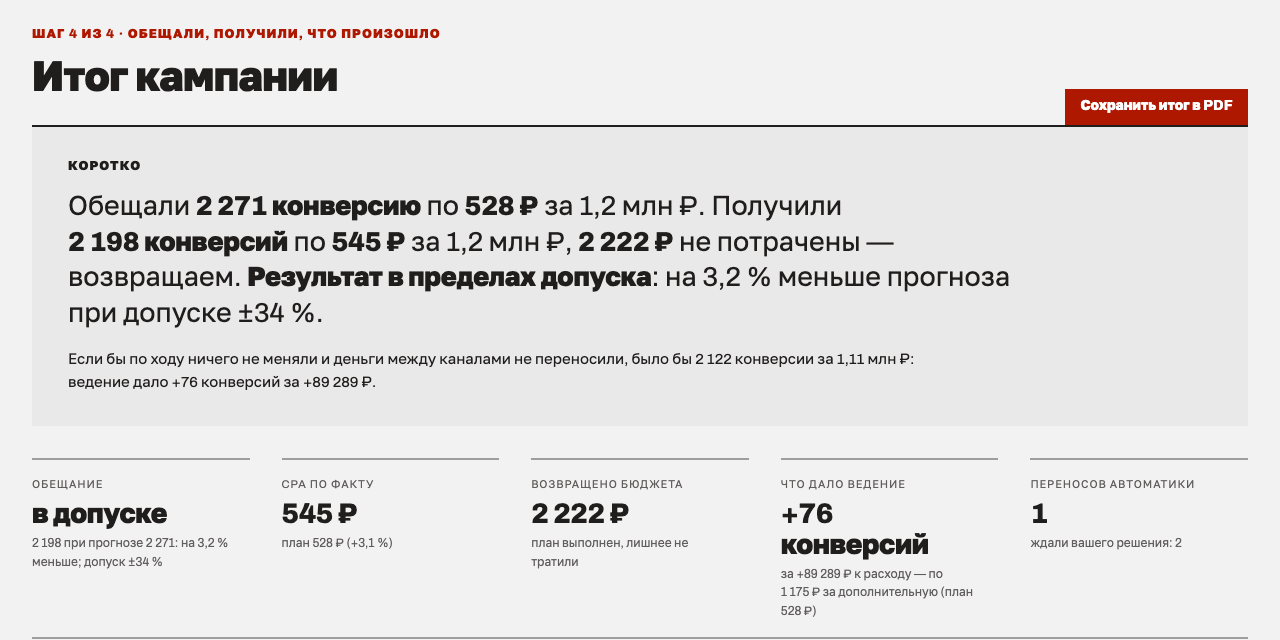
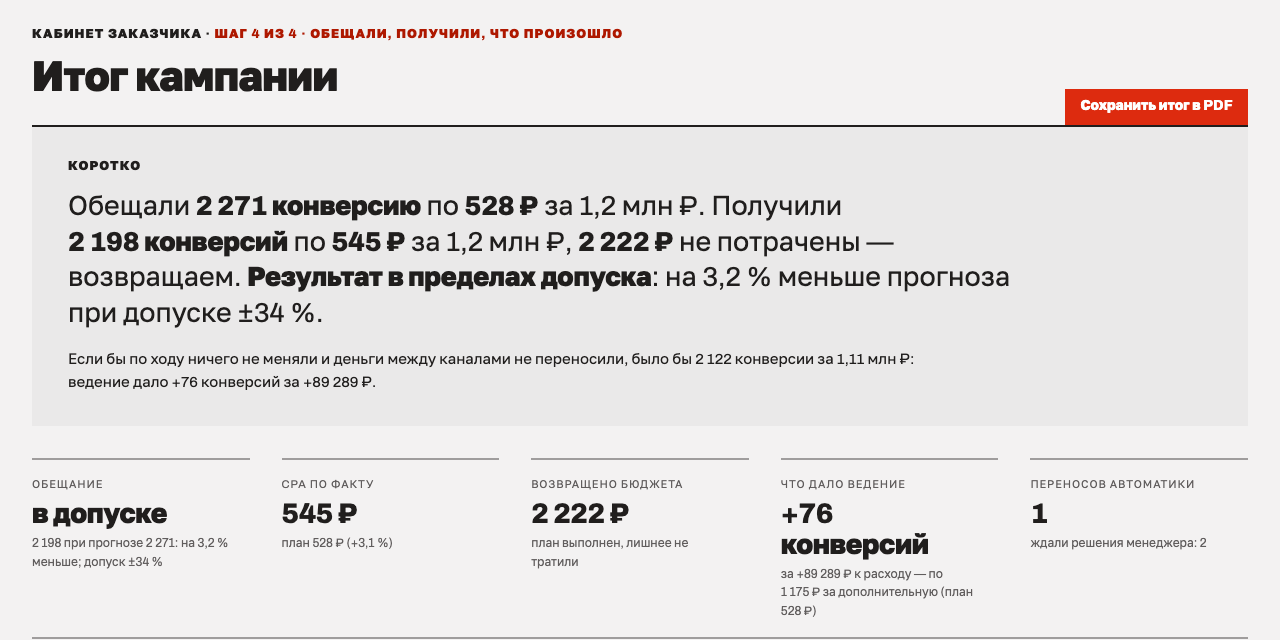
feat(app): два кабинета — заказчик и менеджер
Вместо видов «Просто/Подробно» — переключатель «Кабинет: Заказчик / Менеджер», имя кабинета первым словом на каждом экране и во вкладке, адрес ?role=customer|manager (старые ?level= работают). Заказчик видит карточки переносов выше лимита без кнопок, с подписью «Решает менеджер», плеер у него не ждёт решений; менеджер решает и откатывает. Починен второй приход к итогу (стенды терялись при перерисовке). Снимки и гифка пересняты: customer-*, manager-*.

Changed region(s): [[0.8125, 0.125, 1.0, 0.2188], [0.0312, 0.0312, 0.5, 0.0625], [0.8438, 0.8438, 0.9375, 0.875]]

diff --git a/app/static/index.html b/app/static/index.html
@@ -22,7 +22,7 @@
   }
   *,*::before,*::after{box-sizing:border-box}
   [hidden]{display:none!important}
-  /* Два уровня: «Рекламодатель» — без техники, «Агентство» — с ней. Всё техническое помечено классом tech */
+  /* Два кабинета одной страницей: «Заказчик» (level=simple) — без техники и без решений, «Менеджер» (level=tech) — с ними. Всё для менеджера помечено классом tech, только для заказчика — simple */
   body[data-level=simple] .tech{display:none!important}
   body[data-level=tech] .simple{display:none!important}
   body[data-level=simple] .two{grid-template-columns:1fr}
@@ -111,6 +111,8 @@
   main{max-width:1280px;margin:0 auto;padding:32px 32px 80px}
   section.screen{min-width:0}
   h6.kicker{color:var(--color-accent-700);margin-bottom:12px}
+  /* имя кабинета — первым словом кикера на каждом экране, чтобы роль читалась без переключателя */
+  h6.kicker::before{content:'Кабинет заказчика · ';color:var(--color-text)} body[data-level=tech] h6.kicker::before{content:'Кабинет менеджера · '}
   .lead{max-width:640px;color:var(--color-neutral-700);margin-bottom:24px}
   .head-row{display:flex;flex-wrap:wrap;gap:16px 32px;align-items:flex-end;justify-content:space-between}
   .actions{display:flex;flex-wrap:wrap;gap:12px;align-items:center}
@@ -194,13 +196,13 @@
     <button class="btn step" data-go="run" disabled><span class="num">03</span><span class="lbl">Кампания</span><small class="st">после утверждения</small></button>
     <button class="btn step" data-go="summary" disabled><span class="num">04</span><span class="lbl">Итог</span><small class="st">в конце кампании</small></button>
   </div>
-  <div class="view"><span class="lvl-label">Вид:</span><div class="seg lvl" title="Просто — для рекламодателя: план, кампания, итог без техники. Подробно — для агентства: сценарии рынка, стратегии, стенды на многих прогонах"><button class="btn on" data-level="simple">Просто</button><button class="btn" data-level="tech">Подробно</button></div></div>
+  <div class="view"><span class="lvl-label">Кабинет:</span><div class="seg lvl" title="Заказчик — что обещали, как идёт кампания, что получили; переносы выше лимита решает менеджер. Менеджер — план по каналам, карточки решений, сценарии рынка, стенды на многих прогонах"><button class="btn on" data-level="simple">Заказчик</button><button class="btn" data-level="tech">Менеджер</button></div></div>
 </div>
 <main>
 
 <!-- 01 · Бриф -->
 <section id="brief" class="screen">
-  <div class="head-row"><div><h6 class="kicker"><span class="tech">01 · Медиапланер</span><span class="simple">Шаг 1 из 4 · что вы хотите получить</span></h6>
+  <div class="head-row"><div><h6 class="kicker"><span class="tech">01 · Бриф от заказчика</span><span class="simple">Шаг 1 из 4 · что вы хотите получить</span></h6>
   <h1>Бриф</h1></div><div class="actions" id="brief-actions"><button class="btn btn-primary" id="btn-plan-top">Рассчитать план</button></div></div>
   <p class="lead">Бюджет или цель, срок и набор каналов. Расчёт занимает секунду; план можно пересобрать столько раз, сколько нужно.</p>
   <div class="hr" style="margin-top:0"></div>
@@ -239,7 +241,7 @@
 <!-- 02 · Медиаплан -->
 <section id="plan" class="screen" hidden>
   <div class="head-row">
-    <div><h6 class="kicker" id="plan-kicker">02 · Медиапланер</h6><h1 id="plan-h1">Медиаплан</h1></div>
+    <div><h6 class="kicker" id="plan-kicker">02 · Расчёт и распределение</h6><h1 id="plan-h1">Медиаплан</h1></div>
     <div class="actions" id="plan-actions"></div>
   </div>
   <div id="plan-body"></div>
@@ -248,7 +250,7 @@
 <!-- 03 · Кампания по часам -->
 <section id="run" class="screen" hidden>
   <div class="head-row">
-    <div><h6 class="kicker" id="run-kicker">03 · Трафик-менеджер · 1 час = 1 шаг</h6><h1>Кампания по часам</h1></div>
+    <div><h6 class="kicker" id="run-kicker">03 · Ведение по часам · 1 час = 1 шаг</h6><h1>Кампания по часам</h1></div>
     <div class="actions" id="run-actions"><button class="btn btn-primary" id="btn-run">Запустить кампанию</button><span id="run-done-cta"></span></div>
   </div>
   <div id="run-setup">
@@ -280,7 +282,7 @@
 
 <!-- 04 · Итог -->
 <section id="summary" class="screen" hidden>
-  <div class="head-row"><div><h6 class="kicker"><span class="tech">04 · Рекламодатель · </span><span class="simple">Шаг 4 из 4 · </span>обещали, получили, что произошло</h6><h1 style="margin-bottom:24px">Итог кампании</h1></div><div class="actions" id="summary-actions"><button class="btn btn-primary" id="btn-print-top">Сохранить итог в PDF</button></div></div>
+  <div class="head-row"><div><h6 class="kicker"><span class="tech">04 · Отчёт заказчику · </span><span class="simple">Шаг 4 из 4 · </span>обещали, получили, что произошло</h6><h1 style="margin-bottom:24px">Итог кампании</h1></div><div class="actions" id="summary-actions"><button class="btn btn-primary" id="btn-print-top">Сохранить итог в PDF</button></div></div>
   <div id="summary-body"></div>
   <div class="tech" id="stands" hidden>
     <div class="hr"></div>
@@ -364,8 +366,10 @@ async function api(path, {method, body} = {}) {
 }
 
 // ---------- уровень, экраны и шаги ----------
+const isCustomer = () => document.body.dataset.level === 'simple';
 function setLevel(level, save=true) {
   document.body.dataset.level = level;
+  document.title = level === 'tech' ? 'MediaPlan Optimizer · кабинет менеджера' : 'MediaPlan Optimizer · кабинет заказчика';
   document.querySelectorAll('.lvl .btn').forEach(b => b.classList.toggle('on', b.dataset.level === level));
   if (save) { try { localStorage.setItem('mpo-level', level); } catch {} }
   Object.values(CHARTS).forEach(c => { try { c.resize(); } catch {} });
@@ -409,10 +413,11 @@ function setMode(m) {
 
 async function init() {
   let saved = null; try { saved = localStorage.getItem('mpo-level'); } catch {}
-  // ?level=simple|tech в адресе важнее запомненного: так кабинет открывается на показе в нужном уровне
-  const urlLevel = new URLSearchParams(location.search).get('level');
+  // ?role=customer|manager (или старое ?level=simple|tech) в адресе важнее запомненного: так на показе открывается нужный кабинет
+  const qs = new URLSearchParams(location.search);
+  const urlLevel = qs.get('level') || {customer: 'simple', manager: 'tech'}[qs.get('role')] || null;
   setLevel(urlLevel === 'tech' || (!urlLevel && saved === 'tech') ? 'tech' : 'simple', false);
-  document.querySelectorAll('.lvl .btn').forEach(b => b.onclick = () => { setLevel(b.dataset.level); if (PLAN && !PLAN.infeasibility && !PLAN.is_empty) { renderPlanTable(PLAN); planActions(PLAN); } });
+  document.querySelectorAll('.lvl .btn').forEach(b => b.onclick = () => { setLevel(b.dataset.level); if (PLAN && !PLAN.infeasibility && !PLAN.is_empty) { renderPlanTable(PLAN); planActions(PLAN); } if (RUN && RUN.main) { $('#decision-banner').innerHTML = ''; RUN._bannerH = null; showHour(PLAYER.h || 1); } });
   document.querySelectorAll('.step').forEach(b => b.onclick = () => { if (REACH[b.dataset.go]()) showScreen(b.dataset.go); });
   document.querySelectorAll('#mode-seg .btn').forEach(b => b.onclick = () => setMode(b.dataset.mode));
   $('#objective').onchange = syncCpa; $('#target_kpi').onchange = syncCpa; syncCpa();
@@ -532,7 +537,7 @@ function planActions(p) {
 
 function renderPlan(p) {
   const K = KPI[p.kpi_name], b = p.brief;
-  $('#plan-kicker').innerHTML = `<span class="tech">02 · Медиапланер</span><span class="simple">Шаг 2 из 4 · ваш медиаплан</span> · цель: ${K.nomPl}`;
+  $('#plan-kicker').innerHTML = `<span class="tech">02 · Расчёт и распределение</span><span class="simple">Шаг 2 из 4 · ваш медиаплан</span> · цель: ${K.nomPl}`;
   const clientTarget = p._base ? p._promise.value : b.target_value;
   stage('brief', `${b.budget_rub ? rub(b.budget_rub) : kpiN(clientTarget, p.kpi_name)} · ${days(b.horizon_days)} · ${b.channel_ids.length} ${pw(b.channel_ids.length, ['канал','канала','каналов'])}`, 'done');
   const body = $('#plan-body');
@@ -567,7 +572,7 @@ function renderPlan(p) {
   const applied = p._applied ? `<div class="verdict note"><b>Применён вариант ${p._applied.n}: ${esc(ru(p._applied.description))}.</b> Бриф изменён — теперь ${p._applied.field === 'channel_ids' ? `каналов: ${b.channel_ids.length}, набор виден на шаге «01 Бриф»` : p._applied.field === 'horizon_days' ? `срок ${days(b.horizon_days)}` : `цель ${kpiN(b.target_value, p.kpi_name)}`}.</div>` : '';
   body.innerHTML = `${applied}${p._reserveNote ? `<div class="verdict note">${p._reserveNote}</div>` : ''}
     <div class="stats" style="margin-top:24px">${tiles.map(stat).join('')}</div>
-    <p class="muted" style="margin-top:8px;max-width:820px">Лимит на один перенос: ${b.automation_limit_rub ? rub(b.automation_limit_rub) + ' — переносы дороже будут ждать вашего решения на шаге 3' : 'не задан — автоматика решает сама'}. Изменить — в брифе, блок «Обещание и правила ведения».</p>
+    <p class="muted" style="margin-top:8px;max-width:820px">Лимит на один перенос: ${b.automation_limit_rub ? rub(b.automation_limit_rub) + ' — переносы дороже <span class="tech">будут ждать вашего решения</span><span class="simple">решает менеджер</span> на шаге 3' : 'не задан — автоматика решает сама'}. Изменить — в брифе, блок «Обещание и правила ведения».</p>
     <div id="whatif"></div><div id="stress" class="tech"></div>
     <div class="head-row" style="margin:32px 0 16px"><h4 style="margin:0">Распределение по каналам</h4><div class="actions"><div class="seg" id="metrics-seg"><button type="button" class="btn" id="btn-metrics-brief">Кратко</button><button type="button" class="btn" id="btn-metrics-all">Все метрики</button></div><button class="btn btn-secondary btn-sm" id="btn-calendar"></button><button class="btn btn-secondary btn-sm" id="btn-csv-plan">Скачать CSV</button></div></div>
     <div id="plan-table"></div>
@@ -604,7 +609,7 @@ function planFoot(p) {
   const g = $('#btn-gorun2'); if (g) g.onclick = () => showScreen('run');
 }
 
-// Таблица плана: «Кратко» — шесть столбцов, «Все метрики» — как требует кейс; агентство видит всё сразу
+// Таблица плана: «Кратко» — шесть столбцов, «Все метрики» — как требует кейс; менеджер видит всё сразу
 function renderPlanTable(p) {
   const K = KPI[p.kpi_name], all = VIEW.allMetrics ?? false;
   // подпись кнопки называет текущий режим и действие: «Все метрики → Кратко»
@@ -635,7 +640,7 @@ function renderPlanTable(p) {
 }
 
 function showRunSection(p) {
-  $('#run-kicker').innerHTML = `<span class="tech">03 · Трафик-менеджер · план версии ${p.approved_version}</span><span class="simple">Шаг 3 из 4 · кампания на ${days(p.brief.horizon_days)}, смотрим по часам</span>`;
+  $('#run-kicker').innerHTML = `<span class="tech">03 · Ведение по часам · план версии ${p.approved_version}</span><span class="simple">Шаг 3 из 4 · кампания на ${days(p.brief.horizon_days)}, смотрим по часам</span>`;
   const rb = $('#btn-run'); rb.textContent = 'Запустить кампанию'; rb.className = 'btn btn-primary'; $('#run-done-cta').innerHTML = '';
   const nDays = p.brief.horizon_days; $('#shock_day').max = nDays; if (+$('#shock_day').value > nDays) $('#shock_day').value = Math.max(1, Math.ceil(nDays/2));
   const inPlan = new Set(p.allocations.map(a => a.channel_id));
@@ -651,7 +656,7 @@ function runBrief(p) {
   const K = KPI[p.kpi_name], sc = META.scenarios[FORM.scenario], nDays = p.brief.horizon_days;
   const ev = sc && sc.events.length ? sc.events.map(e => eventLine(e, nDays)).join('; ') : 'без событий — спокойный рынок';
   const n = SHOCKS.length;
-  return `<h6 style="margin-bottom:8px">Что запускаем</h6>Кампания на ${days(nDays)}${dayDate(1) ? ` (с ${dayDate(1)} по ${dayDate(nDays)})` : ''}: бюджет ${rub(p.total_budget_rub)}, ожидаем ${kpiN(p.forecast.p50, p.kpi_name, true)}${p._promise && p._promise.mode === 'cautious' ? `, обещаем не меньше ${fmt(p._promise.value)}` : ''}. Автоматика раз в шесть часов перекладывает деньги между каналами, если план расходится с фактом; переносы дороже ${p.brief.automation_limit_rub ? rub(p.brief.automation_limit_rub) : 'лимита (не задан)'} ждут вашего решения.<br><b>Рынок в этом прогоне:</b> ${esc(ruTitle(sc ? sc.title : FORM.scenario))} — ${esc(ev)}${n ? `; плюс ${n === 1 ? 'ваш шок' : 'ваши шоки'}: ${SHOCKS.map(sk => `${esc(nm(sk.channel_id))} · ${SHOCK_PARAM_RU[sk.parameter] || sk.parameter} ×${String(sk.multiplier).replace('.', ',')} со дня ${sk.day}`).join('; ')}` : ''}. Это учебный сценарий, а не реальное отключение площадки: так видно, как автоматика ведёт себя при сбое.`;
+  return `<h6 style="margin-bottom:8px">Что запускаем</h6>Кампания на ${days(nDays)}${dayDate(1) ? ` (с ${dayDate(1)} по ${dayDate(nDays)})` : ''}: бюджет ${rub(p.total_budget_rub)}, ожидаем ${kpiN(p.forecast.p50, p.kpi_name, true)}${p._promise && p._promise.mode === 'cautious' ? `, обещаем не меньше ${fmt(p._promise.value)}` : ''}. Автоматика раз в шесть часов перекладывает деньги между каналами, если план расходится с фактом; переносы дороже ${p.brief.automation_limit_rub ? rub(p.brief.automation_limit_rub) : 'лимита (не задан)'} ждут <span class="tech">вашего решения</span><span class="simple">решения менеджера</span>.<br><b>Рынок в этом прогоне:</b> ${esc(ruTitle(sc ? sc.title : FORM.scenario))} — ${esc(ev)}${n ? `; плюс ${n === 1 ? 'ваш шок' : 'ваши шоки'}: ${SHOCKS.map(sk => `${esc(nm(sk.channel_id))} · ${SHOCK_PARAM_RU[sk.parameter] || sk.parameter} ×${String(sk.multiplier).replace('.', ',')} со дня ${sk.day}`).join('; ')}` : ''}. Это учебный сценарий, а не реальное отключение площадки: так видно, как автоматика ведёт себя при сбое.`;
 }
 
 // ---------- сценарии рынка и свои шоки ----------
@@ -848,11 +853,12 @@ function cardText(p, r, H) {
   const ifNot = p.inaction_kpi_shortfall_pct != null && p.inaction_kpi_shortfall_pct > 0 ? `недоберём ≈ ${pct(p.inaction_kpi_shortfall_pct/100, 0)} ${K.many} к концу` : 'план выполняется; перенос экономит бюджет';
   let who, cls = 'done';
   if (p.applied_by === 'system') who = 'сделано автоматически' + (limit != null ? `: ${rub(p.amount_rub)} ниже лимита ${rub(limit)}` : '');
-  else if (p.applied_by === 'human') who = 'сделано по вашему решению';
-  else if (d === 'decline') who = `по вашему решению деньги остались в «${esc(nm(p.from_channel))}»`;
-  else { who = `нужно ваше решение: ${rub(p.amount_rub)} выше лимита ${rub(limit)}`; cls = 'pending'; }
-  const undo = p.applied_by === 'human' ? `<div class="actions" style="margin-top:8px"><button class="btn btn-secondary btn-sm" data-h="${p.hour}" data-d="undo">Отменить мой перенос</button></div>` : '';
-  const btns = (p.applied_by === 'pending' && !d) ? `<div style="margin-top:6px"><b>Советуем: перенести.</b> Если не решать, деньги останутся на месте.</div><div class="actions" style="margin-top:8px;gap:8px"><button class="btn btn-primary btn-sm" data-h="${p.hour}" data-d="approve">Перенести</button><button class="btn btn-secondary btn-sm" data-h="${p.hour}" data-d="decline">Оставить как есть</button></div>` : '';
+  else if (p.applied_by === 'human') who = 'сделано по <span class="tech">вашему решению</span><span class="simple">решению менеджера</span>';
+  else if (d === 'decline') who = `по <span class="tech">вашему решению</span><span class="simple">решению менеджера</span> деньги остались в «${esc(nm(p.from_channel))}»`;
+  else { who = `<span class="tech">нужно ваше решение</span><span class="simple">ждёт решения менеджера</span>: ${rub(p.amount_rub)} выше лимита ${rub(limit)}`; cls = 'pending'; }
+  // кнопки решения и отката — только в кабинете менеджера; заказчик видит карточку и кто по ней решает
+  const undo = p.applied_by === 'human' ? `<div class="actions tech" style="margin-top:8px"><button class="btn btn-secondary btn-sm" data-h="${p.hour}" data-d="undo">Отменить мой перенос</button></div>` : '';
+  const btns = (p.applied_by === 'pending' && !d) ? `<div class="tech" style="margin-top:6px"><b>Советуем: перенести.</b> Если не решать, деньги останутся на месте.</div><div class="actions tech" style="margin-top:8px;gap:8px"><button class="btn btn-primary btn-sm" data-h="${p.hour}" data-d="approve">Перенести</button><button class="btn btn-secondary btn-sm" data-h="${p.hour}" data-d="decline">Оставить как есть</button></div><div class="simple" style="margin-top:6px"><b>Решает менеджер.</b> Сумма выше лимита, который вы задали в брифе; пока перенос не решён, деньги остаются в прежнем канале.</div>` : '';
   return `<div class="card ${cls}"><div class="card-kicker">${hourLabel(p.hour)} · ${who}</div><div class="card-title">Перенести ${rub(p.amount_rub)} из «${esc(nm(p.from_channel))}» в «${esc(nm(p.to_channel))}»</div><div style="display:grid;gap:2px"><div><span class="muted">Почему:</span> ${why}</div><div><span class="muted">Если сделать:</span> ${ifDo}</div><div><span class="muted">Если не делать:</span> ${ifNot}</div></div>${btns}${undo}</div>`;
 }
 
@@ -863,13 +869,13 @@ function showHour(H) {
   $('#p-clock').textContent = hourLabel(H); $('#p-pos').innerHTML = `день ${Math.floor((H-1)/24) + 1} из ${Math.ceil(N/24)}${dayDate(Math.floor((H-1)/24) + 1) ? ' · ' + dayDate(Math.floor((H-1)/24) + 1) : ''}<span class="tech"> · час ${H} / ${N}</span>`;
   const sts = shownStatus(r, H);
   const cardHere = m.proposals.some(p => p.hour === H && p.applied_by === 'pending' && !(r.decisions||{})[p.hour]);
-  $('#p-status').innerHTML = cardHere ? '<span class="pill watch" title="карточка ждёт вашего решения — она под сводкой">нужно решение</span>' : (r.shockHours.includes(H) && sts !== 'fire') ? '<span class="pill watch" title="на рынке событие: автоматика перерешит остаток в ближайшие часы — смотрите ленту и карточки">событие рынка</span>' : `<span class="pill ${sts}" title="${sts !== rec.status ? 'по событию рынка: канал не отдаёт показы или сработал детектор' : 'по отклонению факта от плана'}; шкала: в норме — внутри разброса, наблюдаем — за разбросом, сбой канала — канал не отдаёт показы или детектор">${STATUS_RU[sts]}</span>`;
+  $('#p-status').innerHTML = cardHere ? '<span class="pill watch tech" title="карточка ждёт вашего решения — она под сводкой">нужно решение</span><span class="pill watch simple" title="перенос выше лимита ждёт решения менеджера — карточка под сводкой">решает менеджер</span>' : (r.shockHours.includes(H) && sts !== 'fire') ? '<span class="pill watch" title="на рынке событие: автоматика перерешит остаток в ближайшие часы — смотрите ленту и карточки">событие рынка</span>' : `<span class="pill ${sts}" title="${sts !== rec.status ? 'по событию рынка: канал не отдаёт показы или сработал детектор' : 'по отклонению факта от плана'}; шкала: в норме — внутри разброса, наблюдаем — за разбросом, сбой канала — канал не отдаёт показы или детектор">${STATUS_RU[sts]}</span>`;
   stage('run', `${hourLabel(H)} · ${STATUS_RU[sts]}`, H === N ? 'done' : '');
   const errS = rec.plan_cum_spend ? 1 - rec.fact_cum_spend / rec.plan_cum_spend : 0, errK = rec.plan_cum_kpi ? 1 - rec.fact_cum_kpi / rec.plan_cum_kpi : 0, zk = z.hours[H-1].fact_cum_kpi, dz = rec.fact_cum_kpi - zk;
   const pendingNow = m.proposals.filter(p => p.hour <= H && p.applied_by === 'pending' && !(r.decisions||{})[p.hour]);
-  const nextStop = r.stopHours.find(h => h > H);
-  const tile4 = pendingNow.length ? ['Ждёт вашего решения', `${pendingNow.length} ${pw(pendingNow.length, ['карточка','карточки','карточек'])}`, 'перенос выше лимита — карточка под сводкой', 'accent']
-    : H === N ? ['Кампания завершена', 'итог готов', 'кнопка «К итогу для рекламодателя» у часов', '']
+  const nextStop = stops(r).find(h => h > H);
+  const tile4 = pendingNow.length ? ['<span class="tech">Ждёт вашего решения</span><span class="simple">У менеджера на решении</span>', `${pendingNow.length} ${pw(pendingNow.length, ['карточка','карточки','карточек'])}`, '<span class="tech">перенос выше лимита — карточка под сводкой</span><span class="simple">перенос выше лимита — карточка под сводкой, решение в кабинете менеджера</span>', isCustomer() ? '' : 'accent']
+    : H === N ? ['Кампания завершена', 'итог готов', 'кнопка «К итогу» у часов', '']
     : nextStop ? ['Следующая остановка', hourLabel(nextStop), stopKind(r, nextStop), '']
     : rec.reserve > 0 ? ['Резерв бюджета', rub(rec.reserve), 'план выполняется, лишнее не тратим', ''] : ['Впереди', 'без событий', 'кампания идёт по плану', ''];
   const tiles = [
@@ -902,9 +908,9 @@ function showHour(H) {
   $('#cards').querySelectorAll('button[data-h]').forEach(b => b.onclick = () => decideProposal(+b.dataset.h, b.dataset.d));
   const dg = digest(r, H), why = stopReasons(r, H);
   $('#digest').innerHTML = `<h6 style="margin-bottom:8px">${dg.head}</h6>${why.length ? `<p class="stop"><b>Остановились здесь:</b> ${esc(why.join('; '))}.</p>` : ''}${dg.body}`;
-  $('#advice').innerHTML = H === N ? 'кампания завершена. <button class="btn btn-primary btn-sm" style="margin-top:8px" onclick="showScreen(\'summary\')">К итогу для рекламодателя</button>' : dg.advice;
+  $('#advice').innerHTML = H === N ? 'кампания завершена. <button class="btn btn-primary btn-sm" style="margin-top:8px" onclick="showScreen(\'summary\')">К итогу<span class="tech"> для заказчика</span></button>' : dg.advice;
   $('#run-cta').innerHTML = H === N ? '<button class="btn btn-secondary btn-sm" onclick="showScreen(\'summary\')">К итогу →</button>' : '';
-  $('#run-done-cta').innerHTML = H === N ? '<button class="btn btn-primary" onclick="showScreen(\'summary\')">К итогу для рекламодателя</button>' : '';
+  $('#run-done-cta').innerHTML = H === N ? '<button class="btn btn-primary" onclick="showScreen(\'summary\')">К итогу<span class="tech"> для заказчика</span></button>' : '';
   // карточки, ждущие решения, — сразу под сводкой, где совет; копия остаётся в списке переносов
   $('#pending-slot').innerHTML = pendingNow.map(p => cardText(p, r, H)).join('');
   $('#pending-slot').querySelectorAll('button[data-h]').forEach(b => b.onclick = () => decideProposal(+b.dataset.h, b.dataset.d));
@@ -924,8 +930,14 @@ function stopReasons(r, H) {
   for (const sk of (r.custom_shocks||[])) if (sk.start_hour + 1 === H) out.push(`свой шок — ${SHOCK_PARAM_RU[sk.parameter] || sk.parameter} ×${String(sk.multiplier).replace('.', ',')} в «${nm(sk.channel_id)}»`);
   for (const e of m.hours[H-1].events) out.push(ru(e.replace(/^час \d+:\s*/, '')));
   for (const [c, h] of Object.entries(r.verdict.detection_hours)) if (h === H) out.push('детектор: слом канала «' + nm(c) + '»');
-  for (const p of m.proposals) if (p.hour === H) out.push(p.applied_by === 'pending' && !(r.decisions||{})[p.hour] ? 'карточка ждёт вашего решения' : 'перенос бюджета');
+  for (const p of m.proposals) if (p.hour === H) out.push(p.applied_by === 'pending' && !(r.decisions||{})[p.hour] ? (isCustomer() ? 'перенос выше лимита ждёт решения менеджера' : 'карточка ждёт вашего решения') : 'перенос бюджета');
   return out;
+}
+// У заказчика плеер не останавливается на карточках, ждущих решения: решает менеджер. Шоки, события и детектор — остановка в обоих кабинетах
+function stops(r) {
+  if (!isCustomer()) return r.stopHours;
+  const other = new Set([...r.eventHours, ...r.shockHours, ...Object.values(r.verdict.detection_hours)]);
+  return r.stopHours.filter(h => other.has(h));
 }
 function stopKind(r, h) {
   const m = r.main;
@@ -950,7 +962,7 @@ function feedLines(r, H, final=false) {
   for (const sh of r.scenarioHours) if (sh <= H) lines.push({h: sh, k: 0, t: hourStartLabel(sh - 1), text: 'шок рынка: ' + esc(ruTitle(META.scenarios[m.scenario_id]?.title || ''))});
   for (const sk of (r.custom_shocks||[])) { const sh = sk.start_hour + 1; if (sh <= H && sh <= m.hours.length) lines.push({h: sh, k: 0, t: hourStartLabel(sk.start_hour), text: `свой шок: ${esc(SHOCK_PARAM_RU[sk.parameter] || sk.parameter)} ×${String(sk.multiplier).replace('.', ',')} в «${esc(nm(sk.channel_id))}»`}); }
   for (const h of m.hours.slice(0, H)) for (const e of h.events) lines.push({h: h.hour, k: 1, t: hourLabel(h.hour), text: esc(ru(e.replace(/^час \d+:\s*/, '')))});
-  for (const p of m.proposals) if (p.hour <= H) { const d = (r.decisions||{})[p.hour]; const verb = p.applied_by === 'system' ? 'автоматика перенесла' : p.applied_by === 'human' ? 'вы перенесли' : d === 'decline' ? 'вы отклонили перенос' : final ? 'не решено вовремя, деньги остались в прежнем канале — предлагалось перенести' : 'ждёт решения: перенести'; lines.push({h: p.hour, k: 2, amt: p.amount_rub, t: hourLabel(p.hour), text: `${verb} ${rub(p.amount_rub)} из «${esc(nm(p.from_channel))}» в «${esc(nm(p.to_channel))}»`}); }
+  for (const p of m.proposals) if (p.hour <= H) { const d = (r.decisions||{})[p.hour]; const verb = p.applied_by === 'system' ? 'автоматика перенесла' : p.applied_by === 'human' ? (isCustomer() ? 'менеджер перенёс' : 'вы перенесли') : d === 'decline' ? (isCustomer() ? 'менеджер отклонил перенос' : 'вы отклонили перенос') : final ? 'не решено вовремя, деньги остались в прежнем канале — предлагалось перенести' : 'ждёт решения: перенести'; lines.push({h: p.hour, k: 2, amt: p.amount_rub, t: hourLabel(p.hour), text: `${verb} ${rub(p.amount_rub)} из «${esc(nm(p.from_channel))}» в «${esc(nm(p.to_channel))}»`}); }
   // новое сверху; внутри часа порядок причинный: шок → событие → перенос
   return lines.sort((a, b) => b.h - a.h || a.k - b.k);
 }
@@ -961,17 +973,17 @@ function togglePlay() {
   $('#p-play').textContent = '⏸ Пауза';
   PLAYER.timer = setInterval(() => {
     const N = RUN.main.hours.length; let next = Math.min(PLAYER.h + PLAYER.speed, N);
-    const stop = RUN.stopHours.find(h => h > PLAYER.h && h <= next);
+    const stop = stops(RUN).find(h => h > PLAYER.h && h <= next);
     if (stop) { showHour(stop); stopPlayer(); focusStop(stop); return; }
     showHour(next); if (next >= N) stopPlayer();
   }, 250);
 }
 function stopPlayer() { if (PLAYER.timer) clearInterval(PLAYER.timer); PLAYER.timer = null; const b = $('#p-play'); if (b) b.textContent = '▶ Смотреть'; }
-function nextEvent() { stopPlayer(); const nxt = RUN.stopHours.find(h => h > PLAYER.h); showHour(nxt || RUN.main.hours.length); if (nxt) focusStop(nxt); }
+function nextEvent() { stopPlayer(); const nxt = stops(RUN).find(h => h > PLAYER.h); showHour(nxt || RUN.main.hours.length); if (nxt) focusStop(nxt); }
 // Остановились на карточке — показываем её, а не оставляем под сгибом
 function focusStop(h) {
   const r = RUN; if (!r) return;
-  const needs = r.main.proposals.some(p => p.hour === h && p.applied_by === 'pending' && !(r.decisions||{})[p.hour]);
+  const needs = !isCustomer() && r.main.proposals.some(p => p.hour === h && p.applied_by === 'pending' && !(r.decisions||{})[p.hour]);
   const why = stopReasons(r, h).filter(x => !/карточка/.test(x));
   const goOn = '<button class="btn btn-secondary btn-sm" style="margin-left:12px" onclick="togglePlay()">Продолжить ▶</button>';
   $('#decision-banner').innerHTML = needs
@@ -998,7 +1010,7 @@ function digest(r, H) {
   const advice = H === N ? 'кампания завершена, итог ниже'
     : st === 'fire' ? 'канал не отдаёт показы, автоматика заново делит остаток бюджета — смотрите <a href="#pending-slot">карточку переноса</a> и <a href="#feed-short">события</a>'
     : st === 'watch' ? 'вышли за разброс, но канал цел: пересчёт не позже чем через 6 часов, делать ничего не нужно'
-    : fresh.length ? `нужно ваше решение по <a href="#pending-slot">карточке</a> (${hourLabel(fresh[fresh.length-1].hour)}): сумма выше лимита автоматики`
+    : fresh.length ? `<span class="tech">нужно ваше решение по <a href="#pending-slot">карточке</a> (${hourLabel(fresh[fresh.length-1].hour)}): сумма выше лимита автоматики</span><span class="simple">перенос ${hourLabel(fresh[fresh.length-1].hour)} дороже лимита ждёт решения менеджера; пока он не решён, деньги остаются в прежнем канале</span>`
     : r.shockHours.includes(H) ? 'на рынке событие — канал отключился или подорожал. Автоматика перерешит остаток в ближайшие часы: нажмите «Продолжить ▶» и следите за <a href="#feed-short">событиями</a> и карточками'
     : recent.length ? 'рынок изменился, автоматика заново делит остаток бюджета — смотрите <a href="#feed-short">что происходило</a> и <a href="#pending-slot">карточку</a>'
     : 'кампания идёт по плану, ничего делать не нужно';
@@ -1076,11 +1088,13 @@ async function degradationTest() {
 function renderVerdict(r) {
   const v = r.verdict, m = r.main, K = KPI[v.kpi_name], s = r.seeds || {};
   const better = v.final_deviation_kpi <= v.frozen_final_deviation_kpi;
-  $('#run-verdict').innerHTML = `<div class="hr"></div><div class="head-row"><div style="max-width:820px"><h6 style="margin-bottom:8px;color:${v.within_threshold ? 'var(--color-text)' : 'var(--color-accent-700)'}">Кампания завершена<span class="tech"> · порог кейса ${pct(v.threshold,0)} ${v.within_threshold ? 'соблюдён' : 'превышен'}</span></h6><p style="margin:0;font-size:14px">Отклонение в конце по расходу ${pct(v.final_deviation_spend)}, по ${K.dat} ${pct(v.final_deviation_kpi)}.${r.isStatic ? '' : ` План без изменений на том же рынке: ${pct(v.frozen_final_deviation_spend)} / ${pct(v.frozen_final_deviation_kpi)} (${v.frozen_within_threshold ? 'в пороге' : 'вне порога'}). ${better ? 'Мы ближе к плану по ' + K.dat + '.' : 'В этом мире план без изменений оказался ближе по ' + K.dat + '.'}`}<span class="tech"> Стратегия: ${esc(STRATEGY_RU[m.strategy] || m.strategy)}. MAPE по часам: расход ${pct(v.mape_spend)}, ${K.nomPl} ${pct(v.mape_kpi)}. Детектор: ${Object.entries(v.detection_hours).map(([c,h])=>esc(nm(c))+' · '+hourLabel(h)).join(', ')||'не срабатывал'}. Зёрна: каталог ${s.catalog_seed ?? 0} · мир ${s.world_seed} · шум ${s.noise_seed} · сценарий ${esc(r.scenario_id)} — повтор даёт тот же результат.</span></p></div><button class="btn btn-primary" id="btn-gosummary">К итогу для рекламодателя</button></div>`;
+  $('#run-verdict').innerHTML = `<div class="hr"></div><div class="head-row"><div style="max-width:820px"><h6 style="margin-bottom:8px;color:${v.within_threshold ? 'var(--color-text)' : 'var(--color-accent-700)'}">Кампания завершена<span class="tech"> · порог кейса ${pct(v.threshold,0)} ${v.within_threshold ? 'соблюдён' : 'превышен'}</span></h6><p style="margin:0;font-size:14px">Отклонение в конце по расходу ${pct(v.final_deviation_spend)}, по ${K.dat} ${pct(v.final_deviation_kpi)}.${r.isStatic ? '' : ` План без изменений на том же рынке: ${pct(v.frozen_final_deviation_spend)} / ${pct(v.frozen_final_deviation_kpi)} (${v.frozen_within_threshold ? 'в пороге' : 'вне порога'}). ${better ? 'Мы ближе к плану по ' + K.dat + '.' : 'В этом мире план без изменений оказался ближе по ' + K.dat + '.'}`}<span class="tech"> Стратегия: ${esc(STRATEGY_RU[m.strategy] || m.strategy)}. MAPE по часам: расход ${pct(v.mape_spend)}, ${K.nomPl} ${pct(v.mape_kpi)}. Детектор: ${Object.entries(v.detection_hours).map(([c,h])=>esc(nm(c))+' · '+hourLabel(h)).join(', ')||'не срабатывал'}. Зёрна: каталог ${s.catalog_seed ?? 0} · мир ${s.world_seed} · шум ${s.noise_seed} · сценарий ${esc(r.scenario_id)} — повтор даёт тот же результат.</span></p></div><button class="btn btn-primary" id="btn-gosummary">К итогу<span class="tech"> для заказчика</span></button></div>`;
   $('#btn-gosummary').onclick = () => showScreen('summary');
 }
 
 function renderSummary(r) {
+  // стенды переезжают под таблицу итога; перед перерисовкой возвращаем их в секцию, иначе innerHTML уничтожит их вместе со старым якорем (второй приход к итогу падал)
+  const standsEl = $('#stands'); if (standsEl && standsEl.parentElement !== $('#summary')) $('#summary').appendChild(standsEl);
   const m = r.main, v = r.verdict, K = KPI[v.kpi_name];
   const N = m.hours.length;
   const perChannel = PLAN.allocations.map(a => { const c = a.channel_id; const spend = r.cum[c] ? r.cum[c].spend[N-1] : 0; const got = r.cum[c] ? r.cum[c].kpi[N-1] : 0; const promised = allocKpi(a, v.kpi_name); const pf = got ? spend / got : null, pp = promised ? a.budget_rub / promised : null; return `<tr><td>${esc(a.display_name)}</td><td>${fmt(a.budget_rub)}</td><td>${fmt(spend)}</td><td>${a.budget_rub ? spct((spend-a.budget_rub)/a.budget_rub) : '—'}</td><td>${fmt(promised)}</td><td>${fmt(got)}</td><td>${promised?spct((got-promised)/promised):'—'}</td><td>${pf != null ? fmt(pf, pf < 10 ? 2 : 0) : '—'}${pp != null ? ` <span class="muted">(${fmt(pp, pp < 10 ? 2 : 0)})</span>` : ''}</td></tr>`; }).join('');
@@ -1103,7 +1117,7 @@ function renderSummary(r) {
     priceTile,
     ['Возвращено бюджета', rub(returned), returnedNote, ''],
     ...(r.isStatic ? [] : [['Что дало ведение', `${gain >= 0 ? '+' : ''}${fmt(gain)} ${plural(gain, k)}`, `за ${gainSpend >= 0 ? '+' : ''}${rub(gainSpend)} к расходу${gain > 0 && gainSpend > 0 ? ` — по ${fmt(gainSpend / gain)} ₽ за дополнительную (план ${fmt(cpaPlan, cpaPlan < 10 ? 2 : 0)} ₽)` : ''}`, '']]),
-    ['Переносов автоматики', String(m.proposals.filter(p => p.applied_by === 'system').length), `ждали вашего решения: ${v.human_requests}${m.proposals.some(p => p.applied_by === 'human') ? `, сделано вами: ${m.proposals.filter(p => p.applied_by === 'human').length}` : ''}`, ''],
+    ['Переносов автоматики', String(m.proposals.filter(p => p.applied_by === 'system').length), `ждали <span class="tech">вашего решения</span><span class="simple">решения менеджера</span>: ${v.human_requests}${m.proposals.some(p => p.applied_by === 'human') ? `, сделано <span class="tech">вами</span><span class="simple">менеджером</span>: ${m.proposals.filter(p => p.applied_by === 'human').length}` : ''}`, ''],
     ['Порог кейса ' + pct(v.threshold,0), v.within_threshold ? 'в пороге' : 'вне порога', `расход ${pct(v.final_deviation_spend)}, ${K.nomPl} ${pct(v.final_deviation_kpi)}${PLAN._base ? ' от плана с резервом' : ''}; план без изменений ${pct(v.frozen_final_deviation_spend)} / ${pct(v.frozen_final_deviation_kpi)} (${v.frozen_within_threshold ? 'в пороге' : 'вне порога'})`, 'tech' + (v.within_threshold ? '' : ' accent')],
   ];
   // лучший и худший канал — по цене единицы против плана, а не по объёму: объём каналам перекладывала автоматика

diff --git a/README.md b/README.md
@@ -35,13 +35,16 @@ uv venv .venv && uv pip install --python .venv/bin/python -e ".[dev]"
 
 Кабинет собран по дизайн-системе Modernist (Claude Design): четыре экрана
 «01 Бриф · 02 Медиаплан · 03 Кампания · 04 Итог», по одному за раз, шаги —
-кнопками в липкой шапке. Справа в шапке переключатель уровня.
-**«Просто»** — бриф, план, кампания по часам, итог; без зёрен,
-сценариев и стендов. **«Подробно»** — то же плюс техника: сценарии рынка,
-свои шоки, стратегии, зерно мира, стресс-тест, сравнение на 20 мирах, таблица
-часа, вердикт с зёрнами. Уровень запоминается в браузере; адрес
-`/?level=simple` открывает «Просто» принудительно, `/?level=tech` —
-«Подробно». Шрифты Archivo и Golos Text лежат в `app/static/vendor/fonts`,
+кнопками в липкой шапке. Справа в шапке переключатель «Кабинет: Заказчик /
+Менеджер» — два интерфейса одной страницей, как просил кейсодатель.
+**Кабинет заказчика** — бриф, план с обещанием, кампания по часам, итог;
+переносы выше лимита он видит, но решает их менеджер. **Кабинет менеджера** —
+то же плюс карточки решений и техника: сценарии рынка, свои шоки, стратегии,
+зерно мира, стресс-тест, сравнение на 20 мирах, таблица часа, вердикт с
+зёрнами. Имя кабинета стоит первым словом на каждом экране. Выбор
+запоминается в браузере; адрес `/?role=customer` открывает кабинет заказчика
+принудительно, `/?role=manager` — менеджера (старые `?level=simple|tech`
+работают). Шрифты Archivo и Golos Text лежат в `app/static/vendor/fonts`,
 демо не зависит от сети.
 
 1. **Демо 1: бюджет есть, нужен максимум результата.** Кнопка-пример «1,2 млн ₽ на 21 день» на экране
@@ -50,12 +53,12 @@ uv venv .venv && uv pip install --python .venv/bin/python -e ".[dev]"
    потолок CPA, лимит на один перенос, режим «вернуть неизрасходованное /
    потратить весь бюджет». Плитки плана: прогноз с CPA, разброс, бюджет, самый
    загруженный канал; при обещании с запасом — плитка «Обещаем» с нижней
-   границей разброса; в виде «Подробно» — время расчёта. Таблица каналов: бюджет,
+   границей разброса; в кабинете менеджера — время расчёта. Таблица каналов: бюджет,
    доля, выделенный столбец «цена следующей конверсии», показы, охват, клики,
    конверсии, CTR, VTR (допущение, со сноской), CR, CPM, CPC, CPA, частота,
    выкуп аудитории. Ниже календарь по дням (свёрнут) и графики траектории с
-   разбросом; в виде «Подробно» — раскрывающийся блок «Как распределяли». Кнопки:
-   «Утвердить план» (открывает ведение), «Что если бюджет ±10 %», в виде «Подробно» —
+   разбросом; в кабинете менеджера — раскрывающийся блок «Как распределяли». Кнопки:
+   «Утвердить план» (открывает ведение), «Что если бюджет ±10 %», в кабинете менеджера —
    «Стресс-тест: прогнать план через шоки» (семь шоков на одном мире).
 2. **Демо 2: цель есть, нужен бюджет.** Кнопка-пример «цель, которой не достичь». Вердикт: недостижимо, максимум, на сколько меньше цели, во
    что упирается. Три варианта от дешёвого к дорогому с ценой за клик и меткой
@@ -66,7 +69,7 @@ uv venv .venv && uv pip install --python .venv/bin/python -e ".[dev]"
    нижней границе разброса; если резерв недостижим, кабинет говорит об этом и
    показывает план без запаса.
 3. **Демо 3: шок рынка и ведение по часам.** Экран «Кампания по часам»
-   открывается после утверждения. В виде «Подробно» условия прогона лежат
+   открывается после утверждения. В кабинете менеджера условия прогона лежат
    в раскрывающемся блоке: рынок выбирается карточками с
    описанием события (канал, что ломается, сила, со дня и на сколько; события
    за горизонтом помечены), сверху — до трёх своих шоков чипами. Кнопка
@@ -80,25 +83,25 @@ uv venv .venv && uv pip install --python .venv/bin/python -e ".[dev]"
    «Оставить как есть»; решение перепрогоняет кампанию на тех же случайных
    числах и показывает, что изменилось; своё одобрение можно отменить
    («Отменить мой перенос»). Сводка на час говорит, что произошло и
-   что делать. В виде «Подробно» ещё таблица каналов за час, стратегия, зерно мира,
+   что делать. В кабинете менеджера ещё таблица каналов за час, стратегия, зерно мира,
    «Сравнить стратегии на 20 мирах» (интервалы, миров в пороге, победы по KPI
    и по расходу, гистограмма отклонений по мирам с порогом кейса) и «Где
    ломается решение». Итог: «Коротко» для рекламодателя, обещание выполнено
    или нет, отклонения, возвращённый бюджет, переносы автоматики и решения
-   человека, таблица по каналам, хронология событий; в виде «Подробно» — порог кейса
+   человека, таблица по каналам, хронология событий; в кабинете менеджера — порог кейса
    и вердикт с зёрнами.
 
 ## Как выглядит кабинет
 
-Кампания по часам в виде «Просто». Плеер идёт по дням и сам останавливается там, где нужен человек: на переносе дороже лимита и на шоке рынка. Решение — одна кнопка, откат своего решения — тоже одна.
+Кабинет менеджера, кампания по часам. Плеер идёт по дням и сам останавливается там, где нужен человек: на переносе дороже лимита и на шоке рынка. Решение — одна кнопка, откат своего решения — тоже одна.
 
-![Плеер: остановка на карточке, решение, шок дня 11](docs/figures/cabinet/player.gif)
+![Кабинет менеджера: остановка на карточке, решение, шок дня 11](docs/figures/cabinet/player.gif)
 
-Итог отвечает заказчику одним абзацем: что обещали, что получили, что дало ведение.
+Кабинет заказчика, итог: один абзац о том, что обещали, что получили и что дало ведение. Ту же кампанию заказчик смотрит без карточек решений — они у менеджера.
 
-![Итог: обещали, получили, что дало ведение](docs/figures/cabinet/summary-short.png)
+![Кабинет заказчика, итог: обещали, получили, что дало ведение](docs/figures/cabinet/summary-short.png)
 
-Остальные экраны — бриф, медиаплан, экран отказа с тремя вариантами, вид «Подробно» со сценариями рынка, таблицей часа и стендами — лежат в `docs/figures/cabinet/`, назначение каждого снимка — в `docs/materials.md`.
+Остальные экраны обоих кабинетов — бриф, медиаплан, экран отказа с тремя вариантами, кампания на дне шока, итог со стендами — лежат в `docs/figures/cabinet/` (`customer-*` и `manager-*`), назначение каждого снимка — в `docs/materials.md`.
 
 ## Как устроено
 

diff --git a/docs/cabinet_changes.md b/docs/cabinet_changes.md
@@ -97,6 +97,14 @@
 - **Пересчёт решения блокирует плеер и карточки** на 5–10 секунд с подписью; стенды блокируют друг друга, таймаут объясняет, что считается другой стенд.
 - **Бриф:** правила ведения и обещание — над кнопкой расчёта (свёрнуты), главная кнопка этапа снова вверху справа (внизу — второстепенная копия у примеров), пресеты — строка «Быстрый выбор набора» текстовыми кнопками с подчёркиванием, каналы — теги с галочками; подпись «с запасом» меняется по режиму; на плане «Кратко» по умолчанию в обоих видах, связка «обещаем 2 271, при обычном разбросе не меньше 1 496», причина цены запаса («дешёвые каналы выкуплены: … на 100 %»), CSV в единицах экрана; таблица часа — сегмент «Кратко | Все столбцы»; в «Что запускаем» свой шок словами; объяснение, почему дорогой канал получает деньги.
 
+## Круг восьмой: два кабинета — заказчик и менеджер
+
+Кейсодатель просил два интерфейса; до этого они были «видами» одной страницы («Просто / Подробно»), и роль по экрану не считывалась. Теперь переключатель в шапке называется «Кабинет: Заказчик / Менеджер», имя кабинета стоит первым словом кикера на каждом экране, у вкладки браузера тоже, адрес `?role=customer|manager` (старые `?level=simple|tech` работают). Разделение по смыслу, а не только по словам:
+
+- **Заказчик** видит бриф, план с обещанием, кампанию по часам и итог. Карточки переносов выше лимита он видит с подписью «Решает менеджер» и без кнопок; плеер на них не останавливается (только на шоках, событиях и детекторе); в ленте и на итоге — «менеджер перенёс», «ждали решения менеджера».
+- **Менеджер** — всё, что раньше называлось «Подробно», плюс решения по карточкам и их откат.
+- Снимки и гифка в `docs/figures/cabinet/` пересняты: `customer-*`, `manager-*`, `player.gif` (кабинет менеджера).
+
 ## Что осталось за рамками
 
 - Стресс-тест 42 с и сравнение 69 с идут синхронно; вместо распараллеливания — честная оценка времени в интерфейсе и таймаут три минуты.

diff --git a/docs/materials.md b/docs/materials.md
@@ -60,7 +60,7 @@
 
 | Файл | Что на нём | Куда |
 |---|---|---|
-| `simple-01-brief.png` … `simple-04-summary.png` | четыре экрана вида «Просто»: бриф, план, кампания на дне 11, итог | слайды продукта, демо |
-| `tech-02-plan.png`, `tech-02-refusal.png`, `tech-03-run-day11.png`, `tech-04-summary.png` | вид «Подробно»: все метрики, экран отказа, кампания с условиями прогона, итог со стендами | технические слайды |
-| `player.gif` | плеер: остановка на карточке, решение, шок дня 11 | слайд про ведение по часам |
-| `summary-short.png` | итог без шапки: абзац «Коротко» и плитки | README, слайд «обещали и получили» |
+| `customer-01-brief.png` … `customer-04-summary.png` | четыре экрана кабинета заказчика: бриф, план, кампания на дне 11 (карточка «решает менеджер»), итог | слайды продукта, демо |
+| `manager-01-brief.png` … `manager-04-summary.png`, `manager-02-refusal.png` | кабинет менеджера: все метрики, экран отказа, кампания с условиями прогона и карточками решений, итог со стендами | технические слайды, слайд «два кабинета» |
+| `player.gif` | кабинет менеджера, плеер: остановка на карточке, решение, шок дня 11 | слайд про ведение по часам |
+| `summary-short.png` | кабинет заказчика, итог без шапки: абзац «Коротко» и плитки | README, слайд «обещали и получили» |
